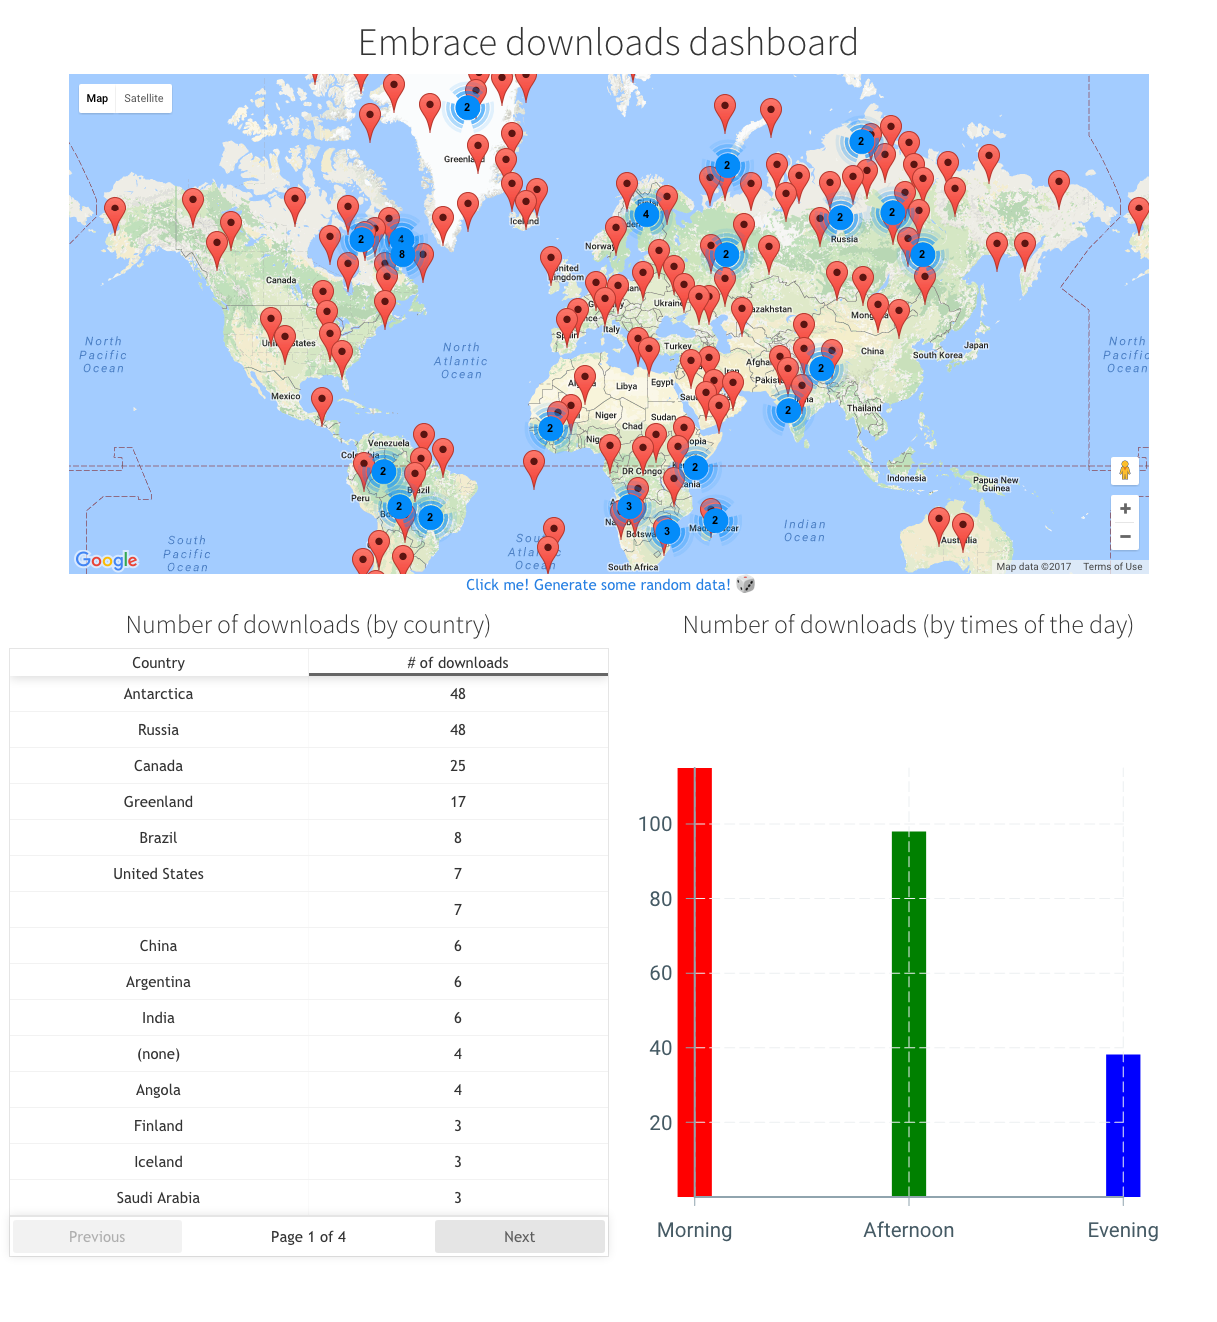
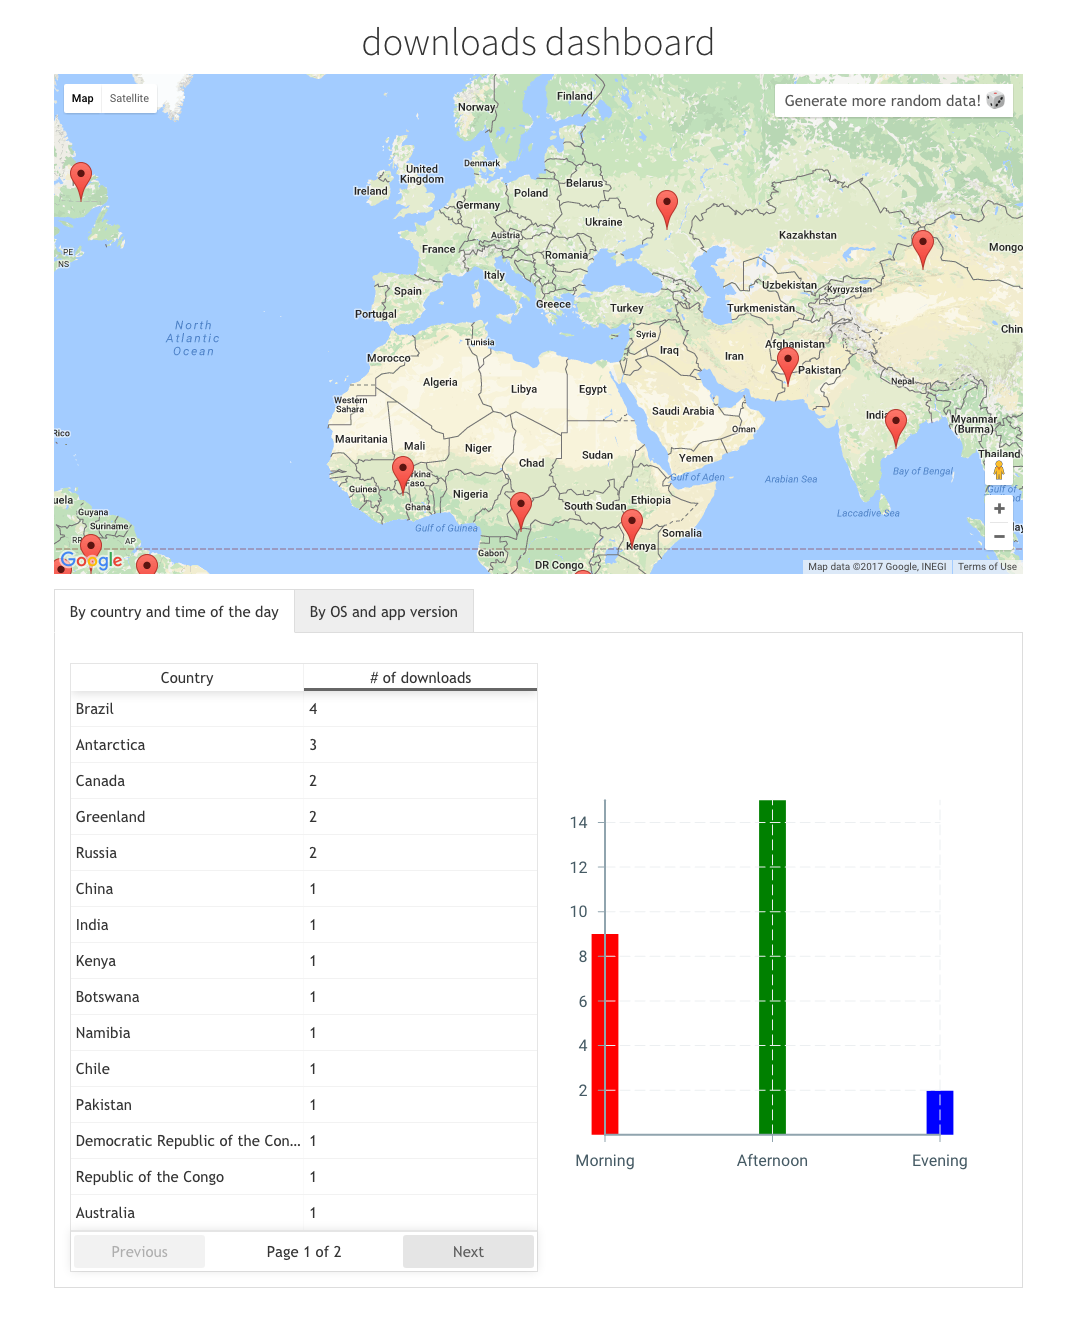
Misc stuff

diff --git a/dd-client/src/components/maps/MapsContainer.js b/dd-client/src/components/maps/MapsContainer.js
@@ -112,7 +112,7 @@ class MapsContainer extends Component {
           onMapClick={this.dropMarker.bind(this)}
         />
         <a className='generatorLink' onClick={this.generateRandomMarkers.bind(this)}>
-          Generate some random data! <span role='img' aria-label='dice'>🎲</span>
+          Generate more random data! <span role='img' aria-label='dice'>🎲</span>
         </a>
       </div>
     );

diff --git a/dd-server/handlers.go b/dd-server/handlers.go
@@ -33,7 +33,7 @@ const (
 func subscribeMap(client *Client, data interface{}) {
 	stop := client.NewStopChannel(MapStop)
 	result := make(chan r.ChangeResponse)
-	cursor, err := r.Table("appdownloads").
+	cursor, err := r.Table("downloads").
 		Changes(r.ChangesOpts{IncludeInitial: true}).
 		Run(client.session)
 	if err != nil {

diff --git a/README.md b/README.md
@@ -8,15 +8,14 @@ Prerequisites: Node, Yarn, Go.
 
 1. `cd ~/<projects_folder>`
 1. `git clone https://github.com/stenowtf/dd.git`
-1. `cd cd dd/client`
+1. `cd dd/dd-client`
 1. `yarn install` or `npm install`
 1. `yarn start` or `npm start`
 1. `cd $GOPATH/src/github.com/stenowtf`
 1. `ln -s ~/<projects_folder>/dd/dd-server dd-server`
 1. `go get gopkg.in/gorethink/gorethink.v3 github.com/gorilla/websocket github.com/mitchellh/mapstructure`
 1. `cd dd-server && go run *.go`
-1. `brew update && brew install rethinkdb`
-1. `rethinkdb`
+1. `brew update && brew install rethinkdb && rethinkdb`
 1. Navigate to: [`http://localhost:8080/#dataexplorer`](http://localhost:8080/#dataexplorer) and run this two commands:
     - `r.dbCreate('dd');`
     - `r.db('dd').tableCreate('downloads');`
@@ -33,13 +32,13 @@ Prerequisites: Node, Yarn, Go.
 
 ## Description
 
-Once you opened [`http://localhost:3000`](http://localhost:3000) you can see three different areas, a map and two graphs:
+Once you opened [`http://localhost:3000`](http://localhost:3000) you can see a map area and a section with the graphs:
 
 ![](./example.png?raw=true)
 
-On the map, you can click on it to simulate a download, but you can also use the link beneath to generate some random data.
+On the map, you can click on it to simulate a download, but you can also use the linkon the upper right to generate more random data.
 
-The two graphs represent the total downloads by country and by time of the day.
+There are graphs that represent the total downloads by country, by time of the day, by operating system, and by version of the app.
 
 Of course, you can open two different tabs and see real-time changes.
 
